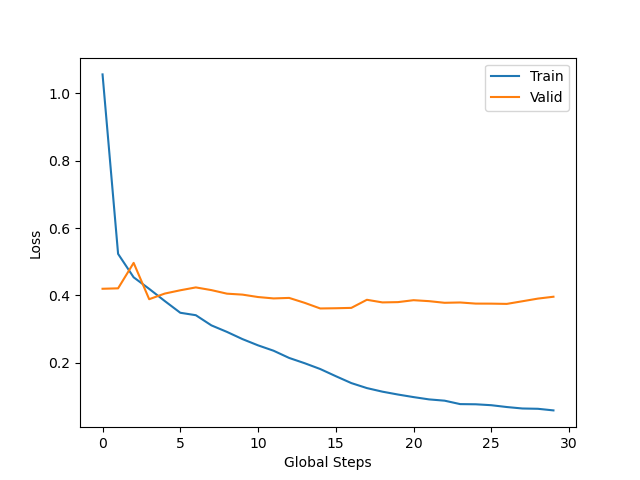
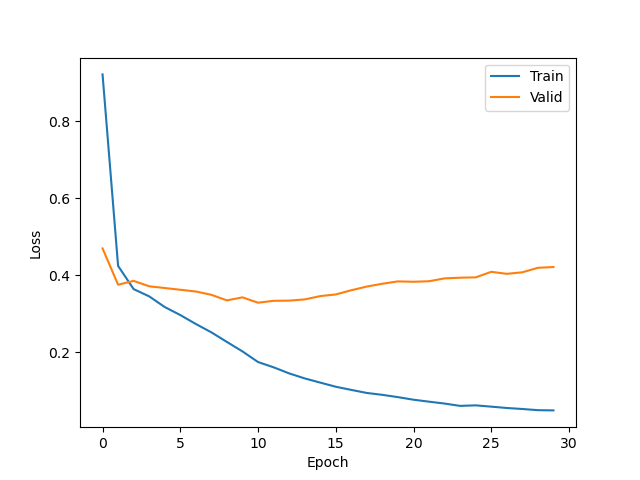
Cleaning up my files
Graphs for LSTM with and without mc dropout

diff --git a/LSTM.py b/LSTM.py
@@ -160,7 +160,7 @@ metricsfile.close()
 
 plt.plot(epochs_list, train_loss_list, label='Train')
 plt.plot(epochs_list, valid_loss_list, label='Valid')
-plt.xlabel('Global Steps')
+plt.xlabel('Epoch')
 plt.ylabel('Loss')
 plt.legend()
 plt.show()   

diff --git a/mcdropout.py b/mcdropout.py
@@ -160,7 +160,7 @@ metricsfile.close()
 
 plt.plot(epochs_list, train_loss_list, label='Train')
 plt.plot(epochs_list, valid_loss_list, label='Valid')
-plt.xlabel('Global Steps')
+plt.xlabel('Epoch')
 plt.ylabel('Loss')
 plt.legend()
 plt.show()   
